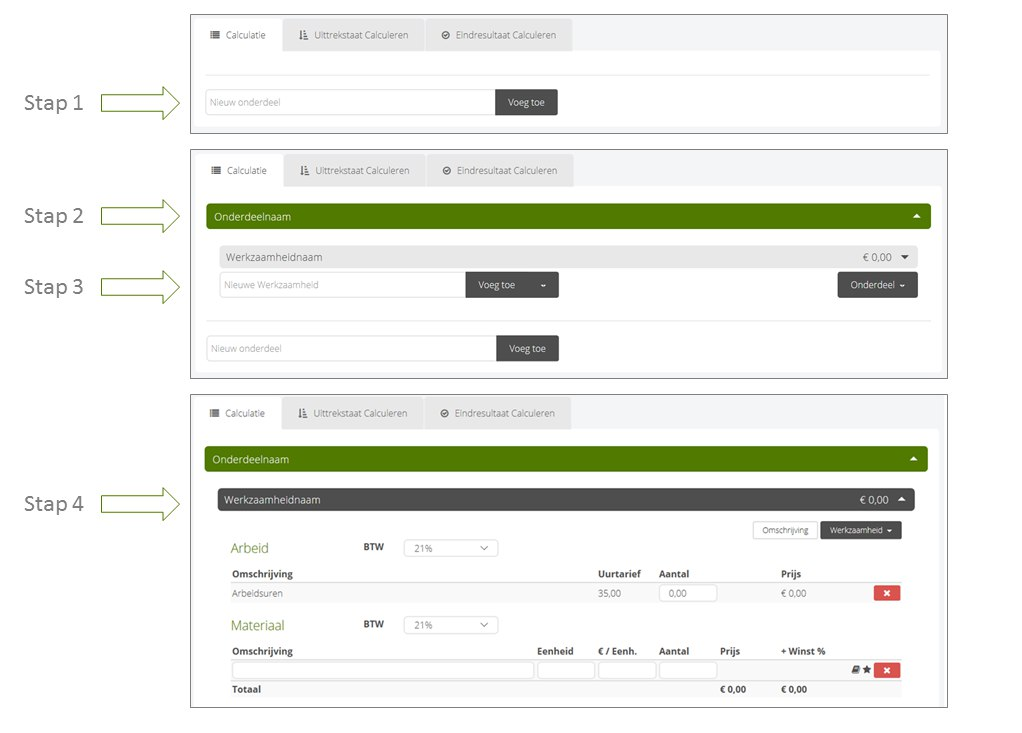
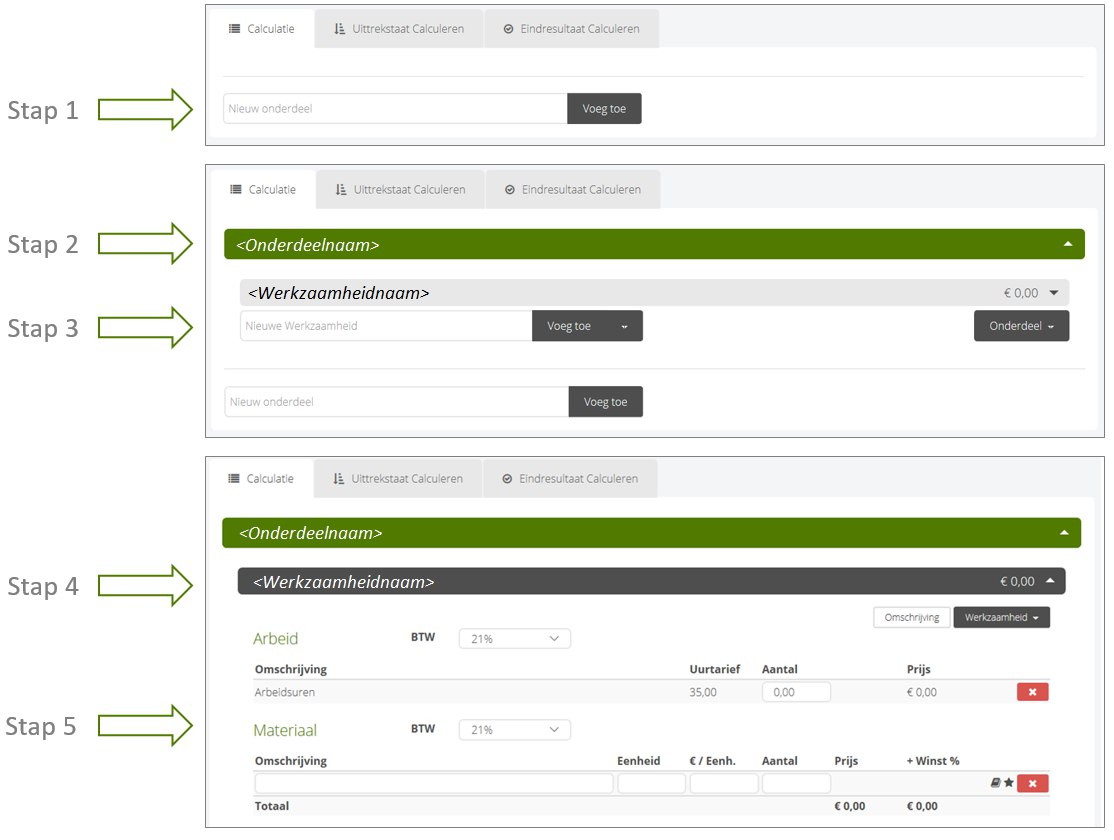
text change

diff --git a/resources/views/calc/calculation.blade.php b/resources/views/calc/calculation.blade.php
@@ -1668,7 +1668,10 @@ if (!$project || !$project->isOwner() || $project->is_dilapidated)
 
 						@if (!Chapter::where('project_id', $project->id)->count())
 						<br>
+						<h4>Een kleine uitleg voordat je begint met calculeren</h4>
+						<hr>
 						<img src="/images/exp_calc.jpg" />
+						<br>
 							<ul>
 								<li>Stap 1: Voeg nieuw <i>Onderdeel</i> toe</li>
 								<li>Stap 2: Klik op het toegevoegde <i>Onderdeel</i></li>
